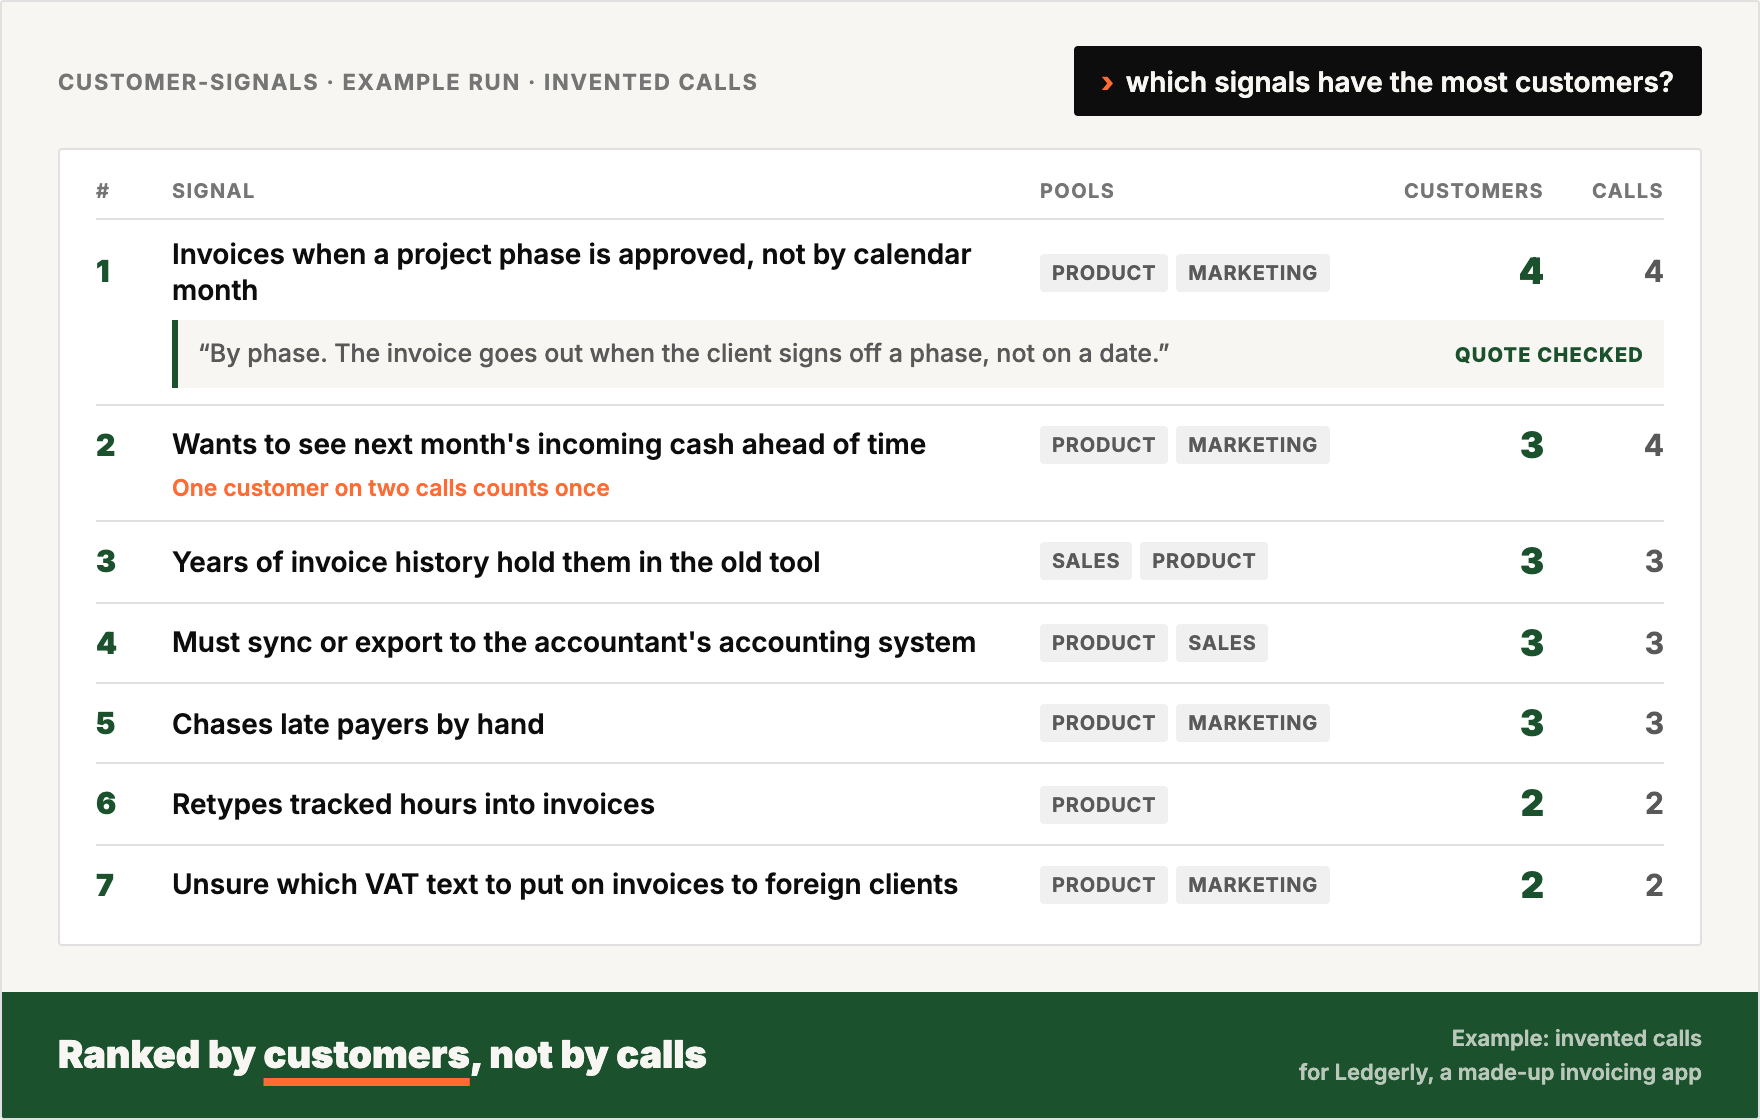
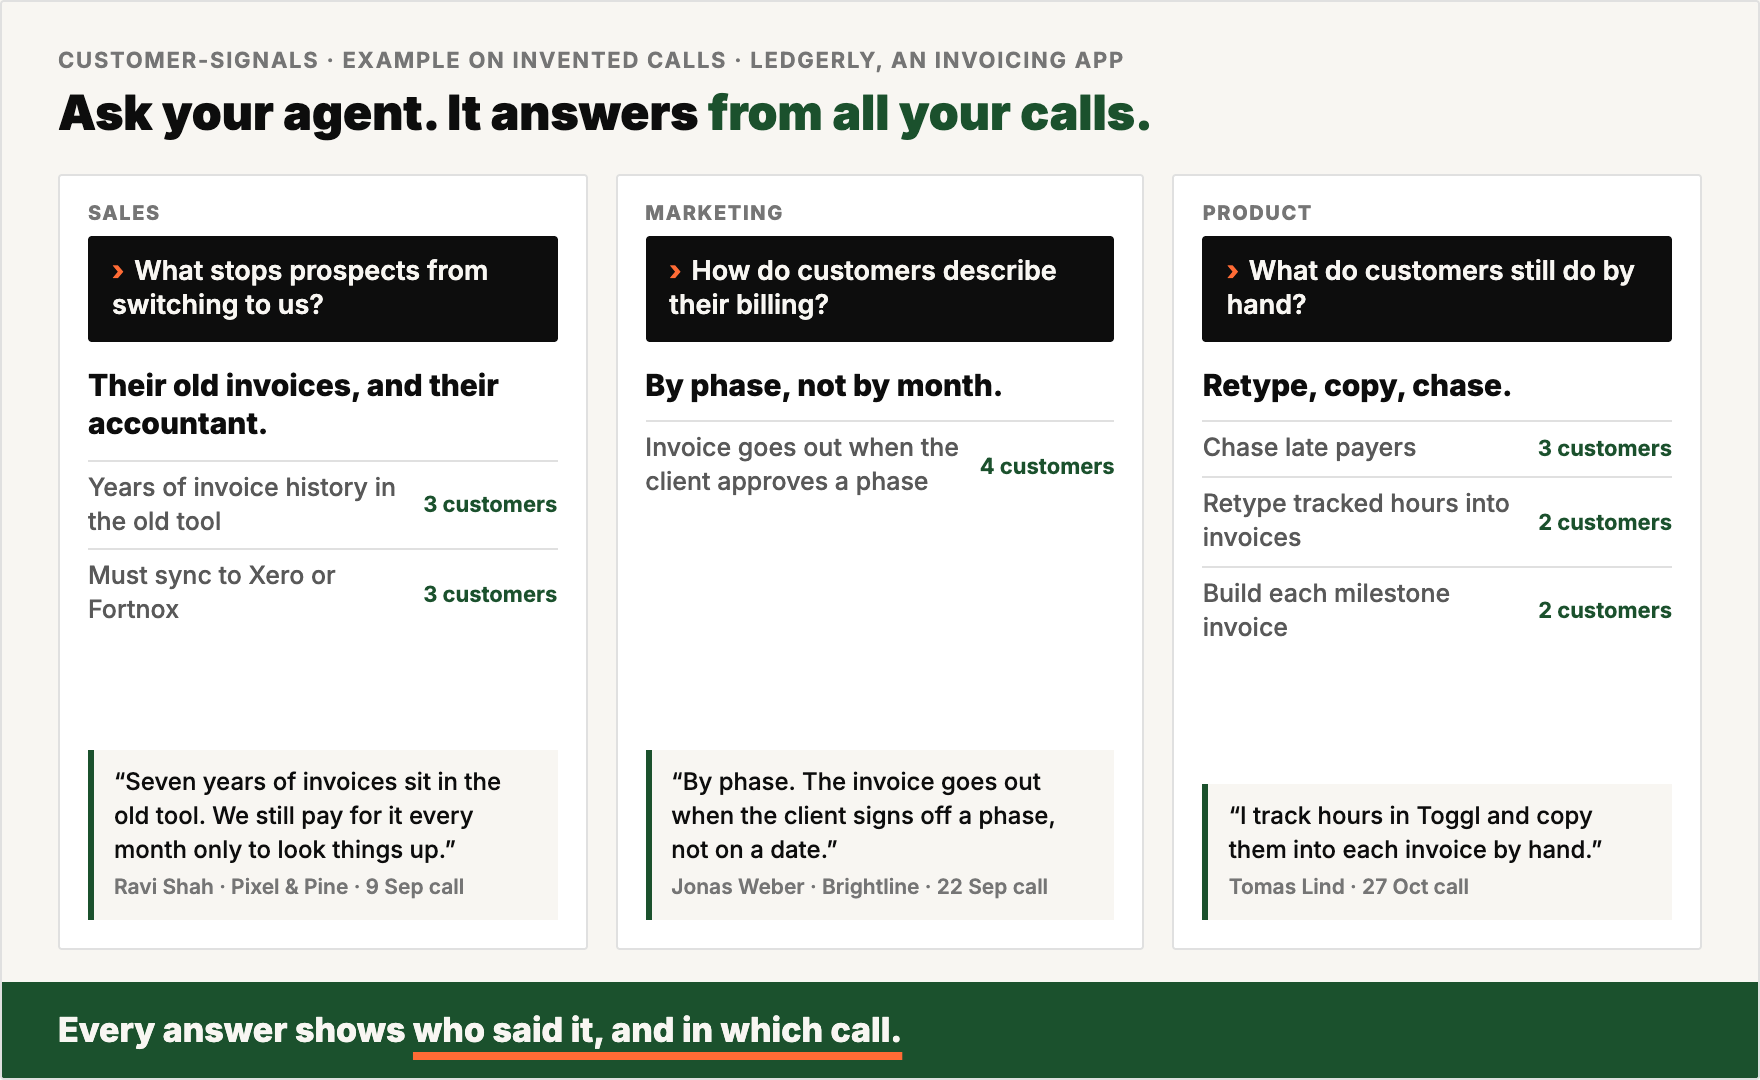
README: lead with asking your agent; new hero

diff --git a/README.md b/README.md
@@ -1,7 +1,7 @@
 <h1 align="center">customer-signals</h1>
 
 <p align="center">
-  <strong>Rank what your customers say by how many of them say it. Check every quote word for word against its call.</strong>
+  <strong>Turn your customer calls into a memory that your AI agent can ask.</strong>
 </p>
 
 <p align="center">
@@ -12,14 +12,12 @@
 </p>
 
 <p align="center">
-  <img src="assets/hero.png" width="880" alt="The example run on invented calls for Ledgerly, a made-up invoicing app. You ask: which signals have the most customers? The ranked list, with customers and calls for each signal: 1, Invoices when a project phase is approved, not by calendar month, 4 customers, 4 calls, with a checked quote. 2, Wants to see next month's incoming cash ahead of time, 3 customers, 4 calls: one customer on two calls counts once. 3, Years of invoice history hold them in the old tool, 3 customers, 3 calls. 4, Must sync or export to the accountant's accounting system, 3 customers, 3 calls. 5, Chases late payers by hand, 3 customers, 3 calls. 6, Retypes tracked hours into invoices, 2 customers, 2 calls. 7, Unsure which VAT text to put on invoices to foreign clients, 2 customers, 2 calls.">
+  <img src="assets/hero.png" width="880" alt="The example run on invented calls for Ledgerly, a made-up invoicing app. Three questions to the agent, each answered from all the calls. Sales asks: what stops prospects from switching to us? Answer: their old invoices and their accountant. Years of invoice history in the old tool, 3 customers. Must sync to Xero or Fortnox, 3 customers. Quote from Ravi Shah, Pixel and Pine: Seven years of invoices sit in the old tool. Marketing asks: how do customers describe their billing? Answer: by phase, not by month, 4 customers. Quote from Jonas Weber, Brightline: The invoice goes out when the client signs off a phase, not on a date. Product asks: what do customers still do by hand? Answer: chase late payers, 3 customers. Retype tracked hours into invoices, 2 customers. Build each milestone invoice, 2 customers. Quote from Tomas Lind: I track hours in Toggl and copy them into each invoice by hand. Every answer shows who said it, and in which call.">
 </p>
 
-An AI debrief of one call forgets the call when you close the chat. It counts nothing across calls.
+Ask your agent *"what stops prospects from switching to us?"* or *"what do customers still do by hand?"*. It answers from all your calls, with a quote and the call for each point.
 
-customer-signals gives your AI agent a memory of all your customer calls. It notes problems, goals, ways of working, tools, buying criteria, objections, requests and quotes. Each signal gets a rank by the number of distinct customers who raised it, with the number of calls beside it.
-
-Ask your agent *"what comes up most in the sales pool?"* and you get a ranked list with counts and quotes.
+customer-signals keeps every call in local files. Your agent writes down what each customer says: problems, goals, ways of working, tools, alternatives, objections, requests and the words they use. It sorts these signals into pools for marketing, sales, product and customer service. A signal that more customers raise comes first.
 
 > **AI agents:** read [`AGENTS.md`](AGENTS.md). It is the complete protocol.
 
